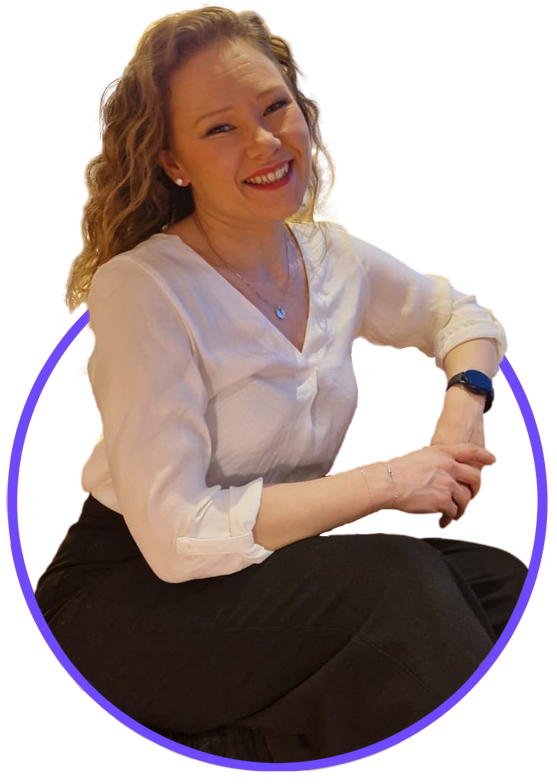
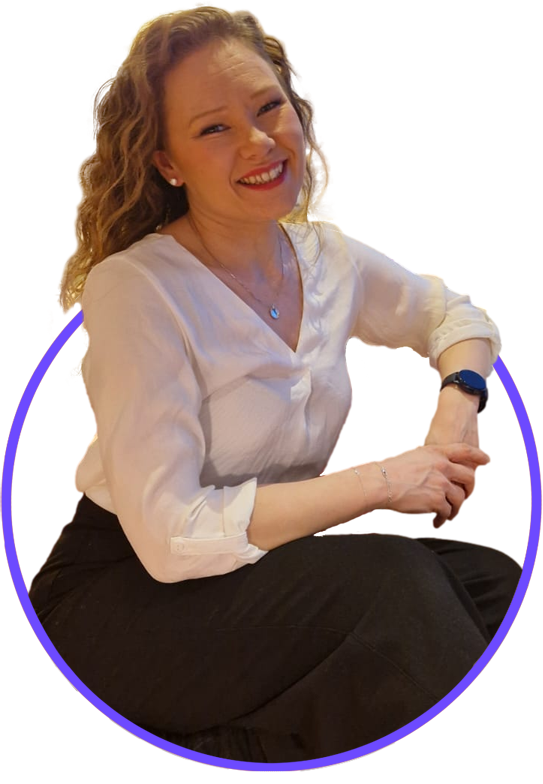
adjusting profile image on mobile styling.

diff --git a/src/components.css b/src/components.css
@@ -64,13 +64,13 @@
     display: flex;
     justify-content: center;
     margin-top: 5px;
+    overflow: hidden;
 }
 
 
 .profile-picture {
     display: block;
-    width: calc(100% + 40px);
-    margin-left: -5px;
+    width: calc(100% + 30px);
 }
 
 
